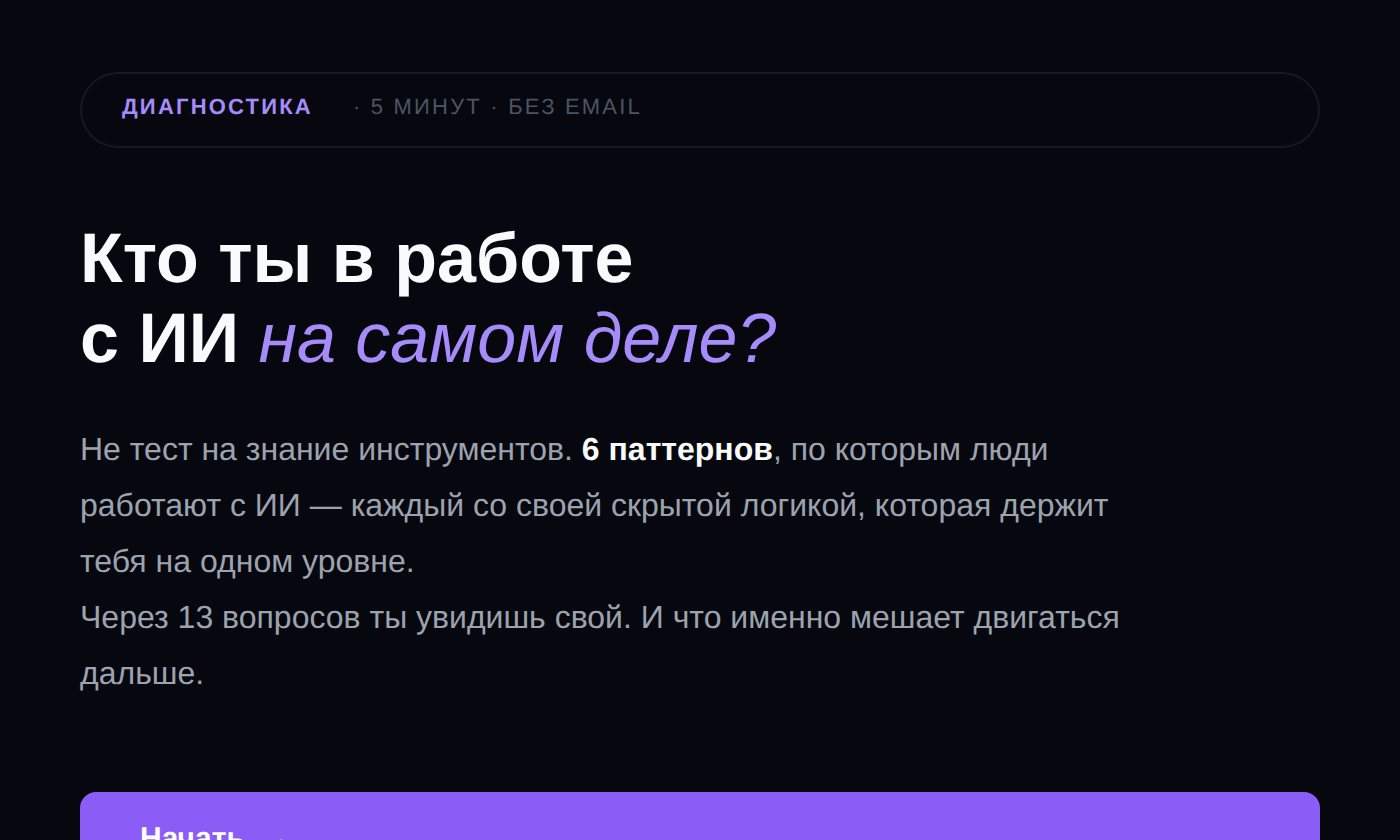
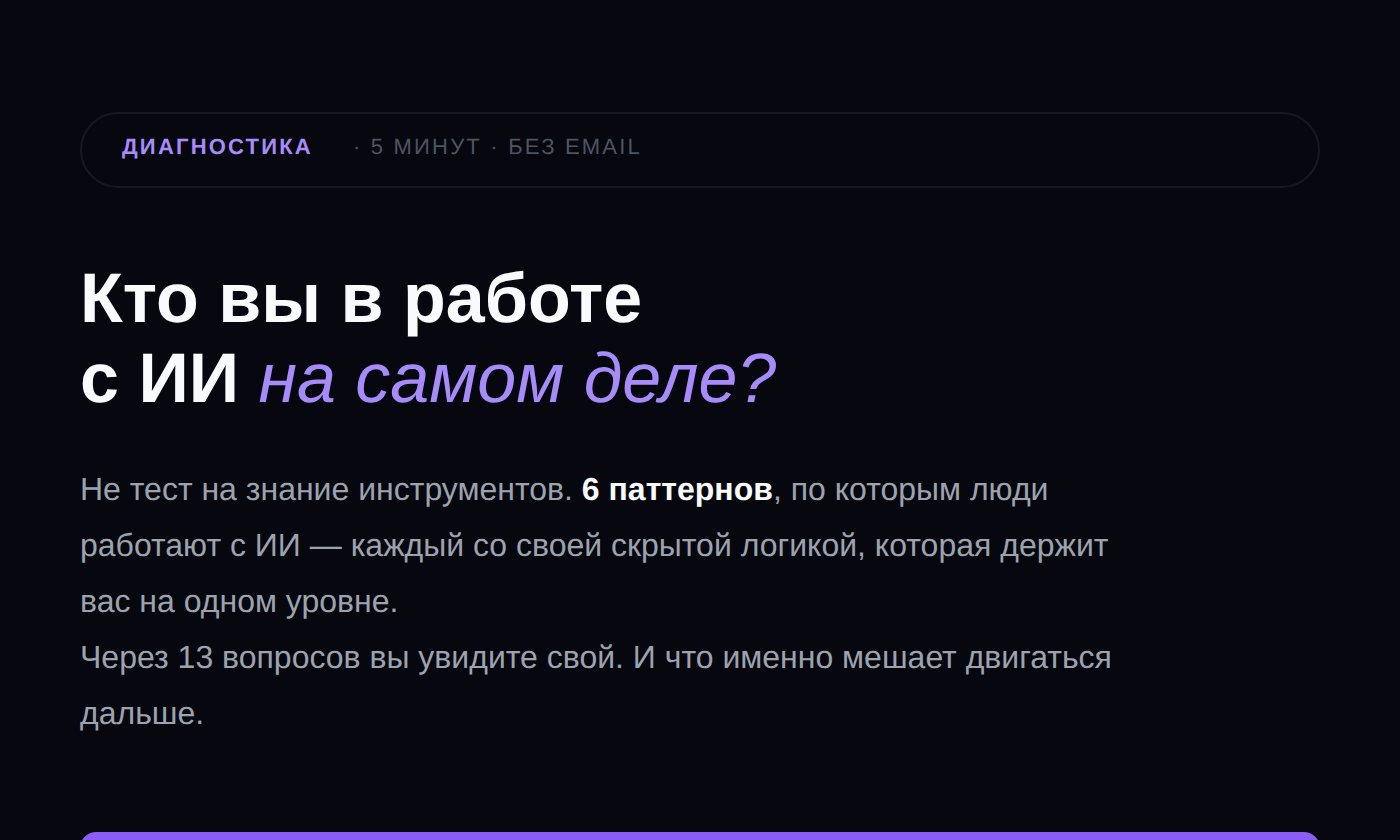
Квиз на «вы», новая обложка; плашка cookie в квизе сверху, чтобы не закрывала кнопку
Claude-Session: https://claude.ai/code/session_01DeUp1uQriwpCXSnBis8mHd

diff --git a/kviz.html b/kviz.html
@@ -3,7 +3,7 @@
 <head>
 <meta charset="UTF-8">
 <meta name="viewport" content="width=device-width, initial-scale=1.0">
-<title>Кто ты в работе с ИИ? · Нейропродюсер</title>
+<title>Кто вы в работе с ИИ? · Нейропродюсер</title>
 <link href="https://fonts.googleapis.com/css2?family=Unbounded:wght@400;600;700;900&family=Inter:wght@300;400;500;600&display=swap" rel="stylesheet">
 <style>
 *{margin:0;padding:0;box-sizing:border-box}
@@ -133,8 +133,8 @@ html,body{min-height:100vh;background:var(--bg);color:var(--text);font-family:'I
 <div id="screen-start" class="screen active">
   <div class="qwrap" style="justify-content:center">
     <div class="pill"><b>ДИАГНОСТИКА</b> · 5 МИНУТ · БЕЗ EMAIL</div>
-    <h1 class="htitle">Кто ты в работе<br>с ИИ <em>на самом деле?</em></h1>
-    <p class="hdesc">Не тест на знание инструментов. <strong>6 паттернов</strong>, по которым люди работают с ИИ — каждый со своей скрытой логикой, которая держит тебя на одном уровне.<br>Через 13 вопросов ты увидишь свой. И что именно мешает двигаться дальше.</p>
+    <h1 class="htitle">Кто вы в работе<br>с ИИ <em>на самом деле?</em></h1>
+    <p class="hdesc">Не тест на знание инструментов. <strong>6 паттернов</strong>, по которым люди работают с ИИ — каждый со своей скрытой логикой, которая держит вас на одном уровне.<br>Через 13 вопросов вы увидите свой. И что именно мешает двигаться дальше.</p>
     <button class="btn" onclick="goRules()">Начать &nbsp;→</button>
     <div class="start-meta">
       <div class="smeta"><div class="sdot"></div>БЕЗ ПРАВИЛЬНЫХ ОТВЕТОВ</div>
@@ -152,15 +152,15 @@ html,body{min-height:100vh;background:var(--bg);color:var(--text);font-family:'I
     <div class="rules">
       <div class="rule">
         <div class="rnum">1</div>
-        <div class="rtext">Отвечай <strong>первым, что приходит в голову</strong>. Если думаешь дольше 5 секунд — выбирай тот вариант, на котором споткнулся. Чаще всего именно он самый честный.</div>
+        <div class="rtext">Отвечайте <strong>первым, что приходит в голову</strong>. Если думаете дольше 5 секунд — выбирайте тот вариант, на котором споткнулись. Чаще всего именно он самый честный.</div>
       </div>
       <div class="rule">
         <div class="rnum">2</div>
-        <div class="rtext">Не ищи <strong>«правильный» вариант</strong>. Здесь нет хороших и плохих ответов — только твой реальный паттерн. Чем ближе к правде — тем точнее разбор в конце.</div>
+        <div class="rtext">Не ищите <strong>«правильный» вариант</strong>. Здесь нет хороших и плохих ответов — только ваш реальный паттерн. Чем ближе к правде — тем точнее разбор в конце.</div>
       </div>
       <div class="rule">
         <div class="rnum">3</div>
-        <div class="rtext">Если ни один вариант не идеален — <strong>выбери самый близкий</strong>. Архетип проявится через комбинацию ответов, даже если в моменте не узнаёшь себя на 100%.</div>
+        <div class="rtext">Если ни один вариант не идеален — <strong>выберите самый близкий</strong>. Архетип проявится через комбинацию ответов, даже если в моменте не узнаёте себя на 100%.</div>
       </div>
     </div>
     <button class="btn" onclick="startQuiz()">Я готов(а) &nbsp;→</button>
@@ -185,7 +185,7 @@ html,body{min-height:100vh;background:var(--bg);color:var(--text);font-family:'I
   <div class="res-wrap" id="res-content"></div>
   <div class="sub-section">
     <div class="sub-title">Паттерн — это «как». Следующий шаг — «что»</div>
-    <p class="sub-text">Какие из твоих задач стоит отдать ИИ, а какие оставить себе? Два ИИ-помощника — Аудитор и Аналитик — за 20 минут разберут твою работу и соберут карту задач. Бесплатно, помощников пришлю в Telegram.</p>
+    <p class="sub-text">Какие из ваших задач стоит отдать ИИ, а какие оставить себе? Два ИИ-помощника — Аудитор и Аналитик — за 20 минут разберут вашу работу и соберут карту задач. Бесплатно, помощников пришлю в Telegram.</p>
     <div class="sub-btns">
       <a href="https://t.me/neiroproducer_bot" id="cta-bot" target="_blank" rel="noopener" class="btn">Получить Аудитора и Аналитика &nbsp;→</a>
       <a href="https://t.me/neiro_producer" target="_blank" rel="noopener" class="btn-outline">Канал Нейропродюсера &nbsp;→</a>
@@ -210,31 +210,31 @@ const BOT_LINK = "https://t.me/neiroproducer_bot?start=c1785849197311-ds";
 // ══════════════════════════════════════════
 const INTRO = {
   label: "ТОЧКА ОТСЧЁТА",
-  q: "Как часто ты используешь ИИ в работе?",
+  q: "Как часто вы используете ИИ в работе?",
   intro: true,
   answers: [
     { l:"А", t:"Каждый день — это часть моего рабочего процесса", a:"Регулярность — хороший знак. Но частота — это не то же самое, что уровень. Дальше мы смотрим не на «сколько», а на «как»." },
-    { l:"Б", t:"Несколько раз в неделю — для отдельных задач", a:"Уже больше, чем у большинства. Важнее другое: что именно происходит, когда ты используешь ИИ? Это и покажет твой паттерн." },
+    { l:"Б", t:"Несколько раз в неделю — для отдельных задач", a:"Уже больше, чем у большинства. Важнее другое: что именно происходит, когда вы используете ИИ? Это и покажет ваш паттерн." },
     { l:"В", t:"Периодически — в основном тестирую что-то новое", a:"Тестирование — честный старт. Паттерн формируется не от частоты, а от реакции, когда что-то идёт не так. Именно на это мы и смотрим." },
-    { l:"Г", t:"Редко — пока не понимаю, куда это встроить", a:"Значит, что-то тормозит. Это не незнание инструментов — это конкретный паттерн. Именно за этим ты здесь." }
+    { l:"Г", t:"Редко — пока не понимаю, куда это встроить", a:"Значит, что-то тормозит. Это не незнание инструментов — это конкретный паттерн. Именно за этим вы здесь." }
   ]
 };
 
 const QS = [
   {
     id:1, label:"ТЕКУЩАЯ ТОЧКА",
-    q:"Что больше всего бесит тебя в работе с ИИ?",
+    q:"Что больше всего бесит вас в работе с ИИ?",
     answers:[
-      {l:"А",t:"Трачу много времени на запрос — а результат всё равно переделываю",arc:"П",a:"Тратить время на запрос и всё равно переделывать — это не проблема инструмента. Это признак высокой планки, которая пока работает против тебя, а не на тебя."},
+      {l:"А",t:"Трачу много времени на запрос — а результат всё равно переделываю",arc:"П",a:"Тратить время на запрос и всё равно переделывать — это не проблема инструмента. Это признак высокой планки, которая пока работает против вас, а не на вас."},
       {l:"Б",t:"Постоянно пробую новые инструменты — и ничего не довожу до конца",arc:"К",a:"Всё время кажется, что есть инструмент получше. Это не любопытство — это паттерн: движение без завершения. Коллекционирование вместо результата."},
       {l:"В",t:"Никогда не уверен(а), насколько можно доверять тому, что выдаёт ИИ",arc:"Ск",a:"Недоверие к результату — рациональная реакция. Пока она не становится привычкой перепроверять всё подряд — даже то, что уже проверено."},
-      {l:"Г",t:"Много изучаю, но никак не перехожу к реальному применению",arc:"Т",a:"Много знаешь — мало применяешь. Разрыв между знанием и действием выглядит как «ещё не готов». Но готовность здесь ни при чём."},
+      {l:"Г",t:"Много изучаю, но никак не перехожу к реальному применению",arc:"Т",a:"Много знаете — мало применяете. Разрыв между знанием и действием выглядит как «ещё не готов». Но готовность здесь ни при чём."},
       {l:"Д",t:"Загораюсь от нового кейса — и так же быстро теряю интерес",arc:"И",a:"Быстро загораться — суперсила. Пока не становится паттерном: загорелся, потерял интерес, переключился. Снова и снова."}
     ]
   },
   {
     id:2, label:"ТЕКУЩАЯ ТОЧКА",
-    q:"Какая мысль чаще всего останавливает тебя перед тем, как применить ИИ?",
+    q:"Какая мысль чаще всего останавливает вас перед тем, как применить ИИ?",
     answers:[
       {l:"А",t:"«Надо сначала сформулировать запрос точнее — иначе получу мусор»",arc:"П",a:"«Надо точнее» звучит разумно и профессионально. Именно поэтому так сложно заметить, что это ловушка, а не осторожность."},
       {l:"Б",t:"«А вдруг есть инструмент, который справится с этим лучше?»",arc:"К",a:"«А вдруг есть лучше» — самый элегантный способ не делать ничего конкретного прямо сейчас. Поиск становится самоцелью."},
@@ -245,21 +245,21 @@ const QS = [
   },
   {
     id:3, label:"ТЕКУЩАЯ ТОЧКА",
-    q:"Что ты считаешь своим главным недостатком в работе с ИИ?",
+    q:"Что вы считаете своим главным недостатком в работе с ИИ?",
     answers:[
-      {l:"А",t:"Трачу слишком много времени на «правильный» запрос",arc:"П",a:"Слишком долго собираешься — ты уже это знаешь. Интереснее другое: что именно защищает этот ритуал и зачем он психике."},
-      {l:"Б",t:"Много пробую, но систему так и не выстроил(а)",arc:"К",a:"Много пробуешь, системы нет. Это не лень — это паттерн: новизна как замена завершённости. Движение вместо результата."},
+      {l:"А",t:"Трачу слишком много времени на «правильный» запрос",arc:"П",a:"Слишком долго собираетесь — вы уже это знаете. Интереснее другое: что именно защищает этот ритуал и зачем он психике."},
+      {l:"Б",t:"Много пробую, но систему так и не выстроил(а)",arc:"К",a:"Много пробуете, системы нет. Это не лень — это паттерн: новизна как замена завершённости. Движение вместо результата."},
       {l:"В",t:"Знаю много теоретически — применяю мало",arc:"Т",a:"Знание без применения — это карта без маршрута. Карта хорошая. Пути нет."},
-      {l:"Г",t:"Загораюсь и быстро остываю — нет стабильной практики",arc:"И",a:"Цикл повторяется — и именно поэтому никто не видит результата. Даже ты сам."},
-      {l:"Д",t:"Использую, но предпочитаю держать это при себе",arc:"Н",a:"Используешь, но держишь при себе. Это не скромность — это стратегия уменьшения присутствия. Тихая и дорогостоящая."}
+      {l:"Г",t:"Загораюсь и быстро остываю — нет стабильной практики",arc:"И",a:"Цикл повторяется — и именно поэтому никто не видит результата. Даже вы сами."},
+      {l:"Д",t:"Использую, но предпочитаю держать это при себе",arc:"Н",a:"Используете, но держите при себе. Это не скромность — это стратегия уменьшения присутствия. Тихая и дорогостоящая."}
     ]
   },
   {
     id:4, label:"ПОВЕДЕНИЕ В ПРОЦЕССЕ",
-    q:"Что ты обычно делаешь, когда результат ИИ не совсем то, что нужно?",
+    q:"Что вы обычно делаете, когда результат ИИ не совсем то, что нужно?",
     answers:[
-      {l:"А",t:"Переформулирую запрос снова и снова — пока не станет ближе к идеалу",arc:"П",a:"Каждый раз надеешься, что вот этот запрос — правильный. Это марафон без финиша: идеал не фиксирован, он всегда немного дальше."},
-      {l:"Б",t:"Пробую другой инструмент или другую модель",arc:"К",a:"Так легче — проблема не в тебе, а в инструменте. Но проблема редко в инструменте. Чаще — в том, как ты с ним взаимодействуешь."},
+      {l:"А",t:"Переформулирую запрос снова и снова — пока не станет ближе к идеалу",arc:"П",a:"Каждый раз надеетесь, что вот этот запрос — правильный. Это марафон без финиша: идеал не фиксирован, он всегда немного дальше."},
+      {l:"Б",t:"Пробую другой инструмент или другую модель",arc:"К",a:"Так легче — проблема не в вас, а в инструменте. Но проблема редко в инструменте. Чаще — в том, как вы с ним взаимодействуете."},
       {l:"В",t:"Начинаю детально разбираться, где именно ошибка и почему",arc:"Ск",a:"Ценный навык — пока не превращается в ритуал, который занимает больше времени, чем сама задача."},
       {l:"Г",t:"Теряю интерес и откладываю — вернусь, когда будет настрой",arc:"И",a:"Это не лень. Это способ защититься от повторного разочарования. Но он же мешает накапливать практику и результат."},
       {l:"Д",t:"Делаю сам(а) — объяснять дольше, чем переделать",arc:"Т",a:"Быстрее для одной задачи — не значит быстрее в системе. Автономность здесь становится ловушкой."}
@@ -267,18 +267,18 @@ const QS = [
   },
   {
     id:5, label:"ПОВЕДЕНИЕ В ПРОЦЕССЕ",
-    q:"Что чаще всего зависает у тебя в «незавершённом»?",
+    q:"Что чаще всего зависает у вас в «незавершённом»?",
     answers:[
-      {l:"А",t:"Задачи, которые начал(а) через ИИ, но «надо ещё чуть доработать»",arc:"П",a:"Тот самый «последний штрих», который откладывается неделями. Ты уже знаешь эту историю — она происходит снова и снова."},
+      {l:"А",t:"Задачи, которые начал(а) через ИИ, но «надо ещё чуть доработать»",arc:"П",a:"Тот самый «последний штрих», который откладывается неделями. Вы уже знаете эту историю — она происходит снова и снова."},
       {l:"Б",t:"Несколько параллельных экспериментов с инструментами без итога",arc:"К",a:"Каждый был интересным. Ни один не закончен. Интересная коллекция незавершённых начал."},
       {l:"В",t:"Интересные кейсы применения, до которых не доходят руки",arc:"И",a:"Они по-прежнему там висят. И, скорее всего, их накопилось немало."},
-      {l:"Г",t:"Материалы и курсы, которые изучил(а), но ещё не применил(а)",arc:"Т",a:"Они ждут «правильного момента». Который появится — когда ты начнёшь применять, а не когда доучишься."},
+      {l:"Г",t:"Материалы и курсы, которые изучил(а), но ещё не применил(а)",arc:"Т",a:"Они ждут «правильного момента». Который появится — когда вы начнёте применять, а не когда доучитесь."},
       {l:"Д",t:"Задачи, результаты которых не хочется показывать коллегам",arc:"Н",a:"Сделано — но спрятано. Это тихий паттерн с большими долгосрочными последствиями."}
     ]
   },
   {
     id:6, label:"ПОВЕДЕНИЕ В ПРОЦЕССЕ",
-    q:"По какой причине откладываешь задачу, которую мог(ла) бы закрыть через ИИ?",
+    q:"По какой причине вы откладываете задачу, которую могли бы закрыть через ИИ?",
     answers:[
       {l:"А",t:"«Нужно сначала правильно сформулировать — иначе получу плохой результат»",arc:"П",a:"Звучит профессионально и разумно. Именно поэтому с этим так сложно спорить — изнутри и снаружи."},
       {l:"Б",t:"«Хочу сначала найти инструмент, который лучше подойдёт»",arc:"К",a:"Правильный инструмент нашёлся бы, если бы дело было в нём. Но дело в том, что поиск становится способом не начинать."},
@@ -289,7 +289,7 @@ const QS = [
   },
   {
     id:7, label:"ОТНОШЕНИЕ К РЕЗУЛЬТАТУ",
-    q:"Что для тебя самое некомфортное в работе с ИИ?",
+    q:"Что для вас самое некомфортное в работе с ИИ?",
     answers:[
       {l:"А",t:"Что результат почти никогда не бывает точным с первого раза",arc:"П",a:"Хочется контроля — понятно. Первый черновик всегда несовершенен. Именно это убеждение и держит на месте."},
       {l:"Б",t:"Что нельзя просто доверять — нужно постоянно перепроверять",arc:"Ск",a:"Доверие — это навык, а не слепота. Его можно откалибровать, не теряя качества и не тратя лишнее время."},
@@ -302,20 +302,20 @@ const QS = [
     q:"Что страшнее?",
     answers:[
       {l:"А",t:"Потратить час на идеальный запрос — и всё равно получить не то",arc:"П",a:"Это не страх провала. Это страх бесполезно потраченного усилия. Тонкое, но важное различие."},
-      {l:"Б",t:"Так и не выстроить систему — продолжать работать хаотично",arc:"К",a:"Ты знаешь, что хаос — это проблема. Но система требует остановиться и выбрать. А выбор — это потеря свободы пробовать всё."},
+      {l:"Б",t:"Так и не выстроить систему — продолжать работать хаотично",arc:"К",a:"Вы знаете, что хаос — это проблема. Но система требует остановиться и выбрать. А выбор — это потеря свободы пробовать всё."},
       {l:"В",t:"Отдать результат с ошибкой ИИ — и не заметить этого",arc:"Ск",a:"Ответственность за точность — это реальная сила. И одновременно груз, который требует постоянного контроля."},
       {l:"Г",t:"Снова начать с энтузиазмом — и снова бросить на полпути",arc:"И",a:"Это не страх неудачи. Это страх подтвердить паттерн ещё раз — убедиться, что ничего не изменилось."},
-      {l:"Д",t:"Что узнают, что ты используешь ИИ для этой работы",arc:"Н",a:"Этот страх маленький и тихий. И именно поэтому он так дорого обходится — он работает незаметно."},
-      {l:"Е",t:"Остаться позади тех, кто уже применяет это системно",arc:"Т",a:"Ты знаешь больше — и видишь, что другие уже применяют. Тревога правильная. Направление, в котором она тебя ведёт — стоит проверить."}
+      {l:"Д",t:"Что узнают, что я использую ИИ для этой работы",arc:"Н",a:"Этот страх маленький и тихий. И именно поэтому он так дорого обходится — он работает незаметно."},
+      {l:"Е",t:"Остаться позади тех, кто уже применяет это системно",arc:"Т",a:"Вы знаете больше — и видите, что другие уже применяют. Тревога правильная. Направление, в котором она вас ведёт — стоит проверить."}
     ]
   },
   {
     id:9, label:"СПОСОБ САМООБМАНА",
-    q:"Какая фраза звучит в голове, когда снова откладываешь?",
+    q:"Какая фраза звучит в голове, когда вы снова откладываете?",
     answers:[
       {l:"А",t:"«Надо ещё чуть-чуть доточить запрос»",arc:"П",a:"Эта фраза всегда звучит разумно. Всегда. В этом и состоит её сила — и её ловушка."},
       {l:"Б",t:"«Надо найти правильный инструмент для этой конкретной задачи»",arc:"К",a:"Правильный инструмент нашёлся бы, если бы дело было в нём. Но дело — не в нём."},
-      {l:"В",t:"«Всё равно придётся проверять — лучше сразу сделаю сам(а)»",arc:"Ск",a:"Правда — да. Но сколько раз перепроверять? Есть порог, после которого проверка работает против, а не на тебя."},
+      {l:"В",t:"«Всё равно придётся проверять — лучше сразу сделаю сам(а)»",arc:"Ск",a:"Правда — да. Но сколько раз перепроверять? Есть порог, после которого проверка работает против, а не на вас."},
       {l:"Г",t:"«Нужно сначала разобраться в теме глубже»",arc:"Т",a:"Глубже куда? Когда достаточно глубоко? Эта граница никогда не фиксируется сама по себе."},
       {l:"Д",t:"«Сейчас нет энергии — вернусь к этому позже»",arc:"И",a:"Система не требует энергии каждый раз заново. Именно для этого она и нужна."}
     ]
@@ -324,18 +324,18 @@ const QS = [
     id:10, label:"СПОСОБ САМООБМАНА",
     q:"Какая причина всегда выглядит «разумной», но на деле тормозит?",
     answers:[
-      {l:"А",t:"«Сначала нужно составить нормальный шаблон — потом буду применять»",arc:"П",a:"Шаблон появится — через практику. А практика начнётся, когда ты перестанешь ждать готового шаблона."},
+      {l:"А",t:"«Сначала нужно составить нормальный шаблон — потом буду применять»",arc:"П",a:"Шаблон появится — через практику. А практика начнётся, когда вы перестанете ждать готового шаблона."},
       {l:"Б",t:"«Этот инструмент не совсем подходит — поищу лучше»",arc:"К",a:"Он никогда не подойдёт на 100%. Это не его проблема — это паттерн ожидания идеального инструмента."},
-      {l:"В",t:"«ИИ всё равно ошибается — безопаснее перепроверить всё самому(ой)»",arc:"Ск",a:"Безопаснее — да. И дороже по времени. Важно понять, что ты покупаешь этой проверкой."},
+      {l:"В",t:"«ИИ всё равно ошибается — безопаснее перепроверить всё самому(ой)»",arc:"Ск",a:"Безопаснее — да. И дороже по времени. Важно понять, что вы покупаете этой проверкой."},
       {l:"Г",t:"«Сначала пройду ещё один курс — потом уже буду применять»",arc:"Т",a:"Следующий курс не изменит паттерн. Изменит только практика — прямо сейчас, с тем, что уже есть."},
       {l:"Д",t:"«Хочу сам(а) разобраться — прежде чем кому-то показывать»",arc:"Н",a:"Звучит как профессионализм. Часто является способом никогда ничего не показать — потому что «готово» так и не наступает."}
     ]
   },
   {
     id:11, label:"РЕАКЦИЯ НА НЕУДАЧУ",
-    q:"Что ты чувствуешь, когда результат ИИ разочаровал?",
+    q:"Что вы чувствуете, когда результат ИИ разочаровал?",
     answers:[
-      {l:"А",t:"Раздражение на себя: плохо сформулировал(а) задачу",arc:"П",a:"Ты берёшь ответственность — и немного слишком много. Перфекционизм в чистом виде: виноват запрос, а не процесс."},
+      {l:"А",t:"Раздражение на себя: плохо сформулировал(а) задачу",arc:"П",a:"Вы берёте ответственность — и немного слишком много. Перфекционизм в чистом виде: виноват запрос, а не процесс."},
       {l:"Б",t:"Желание попробовать другой инструмент — этот точно не подходит",arc:"К",a:"Инструмент не подошёл. Следующий подойдёт. Скорее всего — нет, пока паттерн не изменится."},
       {l:"В",t:"Подтверждение: ИИ всё равно не заменит нормальную экспертизу",arc:"Ск",a:"Иногда это правда. Иногда — способ не двигаться дальше. Важно уметь отличать одно от другого."},
       {l:"Г",t:"Разочарование — и мысль вернуться к проверенным способам",arc:"Т",a:"Проверенные способы безопаснее — и медленнее. Это обмен, который стоит осознать явно."},
@@ -344,20 +344,20 @@ const QS = [
     ]
   },
   {
-    id:12, label:"ТВОЯ СИЛА",
-    q:"Что тебе в работе с ИИ даётся легче, чем другим?",
+    id:12, label:"ВАША СИЛА",
+    q:"Что вам в работе с ИИ даётся легче, чем другим?",
     answers:[
       {l:"А",t:"Точно формулировать задачу и замечать, где результат неточный",arc:"П",a:"Реальная сила. Пока она направлена на перфекционирование запроса — она работает против результата. Если развернуть — станет конкурентным преимуществом."},
       {l:"Б",t:"Быстро находить и осваивать новые инструменты",arc:"К",a:"Конкурентное преимущество. Ему нужна система, чтобы превратиться в реальный результат."},
       {l:"В",t:"Глубоко анализировать и не пропускать ошибки",arc:"Ск",a:"Критическое мышление — редкость. Это ценнее, чем кажется, если направить его правильно."},
-      {l:"Г",t:"Системно разбираться в теме и видеть общую картину",arc:"Т",a:"Это фундамент. Когда к нему добавится практика — ты выйдешь на другой уровень очень быстро."},
-      {l:"Д",t:"Генерировать неожиданные идеи применения ИИ в своей нише",arc:"И",a:"Твой реальный актив. Ему нужны завершённые кейсы, чтобы стать видимым для других."},
+      {l:"Г",t:"Системно разбираться в теме и видеть общую картину",arc:"Т",a:"Это фундамент. Когда к нему добавится практика — вы выйдете на другой уровень очень быстро."},
+      {l:"Д",t:"Генерировать неожиданные идеи применения ИИ в своей нише",arc:"И",a:"Ваш реальный актив. Ему нужны завершённые кейсы, чтобы стать видимым для других."},
       {l:"Е",t:"Работать с ИИ органично — так, что это не бросается в глаза",arc:"Н",a:"Это настоящий стиль. Его стоит показать — именно потому, что он нативный, а не наигранный."}
     ]
   },
   {
     id:13, label:"ГОТОВНОСТЬ К ПЕРЕСТРОЙКЕ",
-    q:"Что тебе было бы проще поменять первым?",
+    q:"Что вам было бы проще поменять первым?",
     answers:[
       {l:"А",t:"Перестать добиваться идеального результата с первой попытки",arc:"П",a:"Это самый точный диагноз — и самый сложный первый шаг. Именно поэтому его стоит сделать."},
       {l:"Б",t:"Выбрать 2–3 инструмента и не трогать остальные",arc:"К",a:"Ограничение кажется потерей. На деле это освобождение — для глубины и для результата."},
@@ -370,68 +370,68 @@ const QS = [
 ];
 
 const INTS = {
-  3: { top:"Замечаешь?", main:"То, что мешает тебе работать с ИИ эффективно —", sub:"это не отсутствие нужного инструмента. Это всегда что-то более тонкое." },
-  6: { top:"Большинство думают, что им мешает незнание инструментов.", main:"На самом деле мешает паттерн —", sub:"способ, которым ты привык(ла) взаимодействовать с ИИ. Мы подходим к нему ближе." },
-  8: { top:"Каждый твой паттерн — не случайность.", main:"У него есть логика.", sub:"И ты сейчас её увидишь." }
+  3: { top:"Замечаете?", main:"То, что мешает вам работать с ИИ эффективно —", sub:"это не отсутствие нужного инструмента. Это всегда что-то более тонкое." },
+  6: { top:"Большинство думают, что им мешает незнание инструментов.", main:"На самом деле мешает паттерн —", sub:"способ, которым вы привыкли взаимодействовать с ИИ. Мы подходим к нему ближе." },
+  8: { top:"Каждый ваш паттерн — не случайность.", main:"У него есть логика.", sub:"И вы сейчас её увидите." }
 };
 
 const ARCHETYPES = {
   П: {
     name:"Перфекционист",
-    headline:"Ты ждёшь идеального промта,\nкоторого не существует",
-    sub:"Перед каждой задачей ты строишь внутренний экзамен. И часто его проваливаешь ещё до того, как начал.",
-    benefit:"Ты защищаешь себя от плохого результата. Пока запрос не «готов» — тебя нельзя оценить «ниже планки».",
+    headline:"Вы ждёте идеального промпта,\nкоторого не существует",
+    sub:"Перед каждой задачей вы строите внутренний экзамен. И часто его проваливаете ещё до того, как начали.",
+    benefit:"Вы защищаете себя от плохого результата. Пока запрос не «готов» — вас нельзя оценить «ниже планки».",
     cost:"На формулировку уходит больше времени, чем сэкономил бы ИИ. Задачи зависают. Результатов мало.",
-    strength:"Ты замечаешь ошибки там, где другие пропустят. Точность — реальный актив, если направить его на результат, а не на запрос.",
+    strength:"Вы замечаете ошибки там, где другие пропустят. Точность — реальный актив, если направить его на результат, а не на запрос.",
     scales:[{n:"Перфекционизм",v:96},{n:"Потребность в контроле",v:89},{n:"Страх ошибки",v:74}],
-    exit:"Принять, что первый черновик — это инструмент, а не результат. ИИ не заменяет твоё мышление. Он ускоряет его."
+    exit:"Принять, что первый черновик — это инструмент, а не результат. ИИ не заменяет ваше мышление. Он ускоряет его."
   },
   К: {
     name:"Коллекционер",
-    headline:"Ты собираешь инструменты\nвместо результатов",
+    headline:"Вы собираете инструменты\nвместо результатов",
     sub:"Каждый новый инструмент кажется тем самым — правильным, нужным. И каждый раз это не совсем так.",
     benefit:"Исследование новых инструментов даёт ощущение прогресса без риска ошибки в реальной задаче.",
     cost:"Ни один инструмент не освоен глубоко. Нет системы. Нет результатов, которые можно показать.",
-    strength:"Ты первым замечаешь нужный инструмент. Скорость освоения нового — реальное преимущество, если добавить систему.",
+    strength:"Вы первыми замечаете нужный инструмент. Скорость освоения нового — реальное преимущество, если добавить систему.",
     scales:[{n:"Любовь к новизне",v:93},{n:"Системность",v:24},{n:"Завершённость проектов",v:19}],
     exit:"Выбрать 2–3 инструмента. Не трогать остальное 60 дней. Построить первую рабочую систему."
   },
   Ск: {
     name:"Скептик",
-    headline:"Ты перепроверяешь ИИ чаще,\nчем он тебя подводит",
+    headline:"Вы перепроверяете ИИ чаще,\nчем он вас подводит",
     sub:"Недоверие — умная реакция. Пока не становится ритуалом, который съедает всю выгоду от использования.",
-    benefit:"Ты сохраняешь ощущение экспертности: «я не просто доверяю машине — я контролирую результат».",
-    cost:"На проверку уходит столько же времени, сколько ты сэкономил. Скорость не растёт. Уровень — тоже.",
-    strength:"Критический взгляд — ценнее, чем кажется. Ты замечаешь то, что другие пропускают. Это можно монетизировать.",
+    benefit:"Вы сохраняете ощущение экспертности: «я не просто доверяю машине — я контролирую результат».",
+    cost:"На проверку уходит столько же времени, сколько вы сэкономили. Скорость не растёт. Уровень — тоже.",
+    strength:"Критический взгляд — ценнее, чем кажется. Вы замечаете то, что другие пропускают. Это можно монетизировать.",
     scales:[{n:"Критическое мышление",v:94},{n:"Доверие к ИИ",v:22},{n:"Скорость работы",v:36}],
     exit:"Выработать один чёткий критерий доверия — и не перепроверять сверх него. Это не снижение стандартов. Это освобождение."
   },
   Т: {
     name:"Теоретик",
-    headline:"Ты знаешь про ИИ больше всех —\nи применяешь меньше всех",
-    sub:"Твои знания реальны. Разрыв между ними и реальным применением — тоже.",
+    headline:"Вы знаете про ИИ больше всех —\nи применяете меньше всех",
+    sub:"Ваши знания реальны. Разрыв между ними и реальным применением — тоже.",
     benefit:"Позиция «я ещё изучаю» защищает от риска сделать что-то неправильно. Это умно. И очень удобно.",
-    cost:"Знания не конвертируются в результат. Ты не видишь своего реального уровня — потому что он не проверен в деле.",
-    strength:"Системное понимание — фундамент. Когда ты начнёшь применять, выйдешь на другой уровень быстро.",
+    cost:"Знания не конвертируются в результат. Вы не видите своего реального уровня — потому что он не проверен в деле.",
+    strength:"Системное понимание — фундамент. Когда вы начнёте применять, выйдете на другой уровень быстро.",
     scales:[{n:"Знания об ИИ",v:91},{n:"Практическое применение",v:29},{n:"Уверенность в результате",v:43}],
     exit:"Взять одну реальную задачу — и закрыть её через ИИ прямо сейчас. Не готовиться. Делать."
   },
   И: {
     name:"Искра",
-    headline:"Ты зажигаешься быстрее всех —\nи гаснешь так же",
+    headline:"Вы зажигаетесь быстрее всех —\nи гаснете так же",
     sub:"Энтузиазм настоящий. Проблема — не в нём. Проблема в том, что следует после.",
     benefit:"Постоянная новизна создаёт ощущение движения. Скучно не бывает. Системы тоже.",
-    cost:"Ни один кейс не закончен. Твои идеи о применении ИИ лучше, чем у большинства. Но никто этого не видит.",
-    strength:"Генерируешь идеи применения, которых другие не замечают. Это стратегическая ценность — если оформить в кейсы.",
+    cost:"Ни один кейс не закончен. Ваши идеи о применении ИИ лучше, чем у большинства. Но никто этого не видит.",
+    strength:"Вы генерируете идеи применения, которых другие не замечают. Это стратегическая ценность — если оформить в кейсы.",
     scales:[{n:"Энтузиазм и энергия",v:97},{n:"Завершённость проектов",v:18},{n:"Стабильная практика",v:21}],
-    exit:"Один проект — одна цель — один месяц без новых инструментов. Это твой вызов и следующий шаг."
+    exit:"Один проект — одна цель — один месяц без новых инструментов. Это ваш вызов и следующий шаг."
   },
   Н: {
     name:"Невидимка",
-    headline:"Ты используешь ИИ так,\nчтобы никто не заметил",
-    sub:"Ты не скрываешь. Ты просто всё время уменьшаешь своё присутствие до безопасного уровня.",
-    benefit:"Ты избегаешь оценки, осуждения, ощущения «я схитрил». Это снижает риск — и одновременно видимость.",
-    cost:"Твой реальный уровень остаётся невидимым — даже для тебя самого. Ты не знаешь, насколько ты хорош.",
+    headline:"Вы используете ИИ так,\nчтобы никто не заметил",
+    sub:"Вы не скрываете. Вы просто всё время уменьшаете своё присутствие до безопасного уровня.",
+    benefit:"Вы избегаете оценки, осуждения, ощущения «я схитрил». Это снижает риск — и одновременно видимость.",
+    cost:"Ваш реальный уровень остаётся невидимым — даже для вас самих. Вы не знаете, насколько вы хороши.",
     strength:"Тонкость, чувство меры, органичность. Если перестать уменьшать присутствие — это станет узнаваемым стилем.",
     scales:[{n:"Страх оценки",v:89},{n:"Реальный уровень",v:68},{n:"Публичная видимость",v:14}],
     exit:"Показать один результат — коллеге, аудитории, кому угодно. Не «заявить о себе». Просто не спрятать."
@@ -613,16 +613,16 @@ function showResult(){
         <div class="pc-text">${arch.cost}</div>
       </div>
       <div class="pcard">
-        <div class="pc-label">ТВОЯ СИЛА</div>
+        <div class="pc-label">ВАША СИЛА</div>
         <div class="pc-text">${arch.strength}</div>
       </div>
     </div>
     <div class="scales">
-      <div class="sc-label">КАК РАСПРЕДЕЛИЛИСЬ ТВОИ ОТВЕТЫ</div>
+      <div class="sc-label">КАК РАСПРЕДЕЛИЛИСЬ ВАШИ ОТВЕТЫ</div>
       ${scalesHTML}
     </div>
     <div class="exit-box">
-      <div class="exit-label">ВЫХОД ДЛЯ ТЕБЯ</div>
+      <div class="exit-label">ВЫХОД ДЛЯ ВАС</div>
       <div class="exit-text">${arch.exit}</div>
     </div>
   `;

diff --git a/index.html b/index.html
@@ -160,7 +160,7 @@
           <a class="case-shot shot-img shot-left" href="kviz.html" target="_blank" rel="noopener" data-goal="example_quiz"><img src="assets/example-quiz.jpg" alt="Первый экран квиза «Кто ты в работе с ИИ на самом деле?»" width="1400" height="784" loading="lazy"></a>
           <div class="case-body">
             <p class="case-label">Квиз для воронки</p>
-            <h3>Квиз «Кто ты в&nbsp;работе с&nbsp;ИИ»</h3>
+            <h3>Квиз «Кто вы в&nbsp;работе с&nbsp;ИИ»</h3>
             <dl class="case-io">
               <div><dt>На входе</dt><dd>методика: шесть паттернов работы с&nbsp;ИИ и&nbsp;13&nbsp;вопросов</dd></div>
               <div><dt>На выходе</dt><dd>квиз с&nbsp;разбором результата, который ведёт в&nbsp;Telegram-бот</dd></div>

diff --git a/cookie.js b/cookie.js
@@ -6,7 +6,9 @@
   var bar = document.createElement("div");
   bar.setAttribute("role", "region");
   bar.setAttribute("aria-label", "Уведомление о cookie");
-  bar.style.cssText = "position:fixed;left:16px;right:16px;bottom:16px;z-index:9999;max-width:640px;margin:0 auto;" +
+  // В квизе внизу экрана живёт панель с кнопкой «Следующий вопрос» — там плашку ставим наверх
+  var edge = document.getElementById("apanel") ? "top" : "bottom";
+  bar.style.cssText = "position:fixed;left:16px;right:16px;" + edge + ":16px;z-index:9999;max-width:640px;margin:0 auto;" +
     "display:flex;gap:14px;align-items:center;flex-wrap:wrap;padding:14px 16px;border-radius:12px;" +
     "background:#20231f;color:#f4f1ea;font:14px/1.5 system-ui,-apple-system,'Segoe UI',sans-serif;box-shadow:0 8px 30px rgba(0,0,0,.25)";
 
